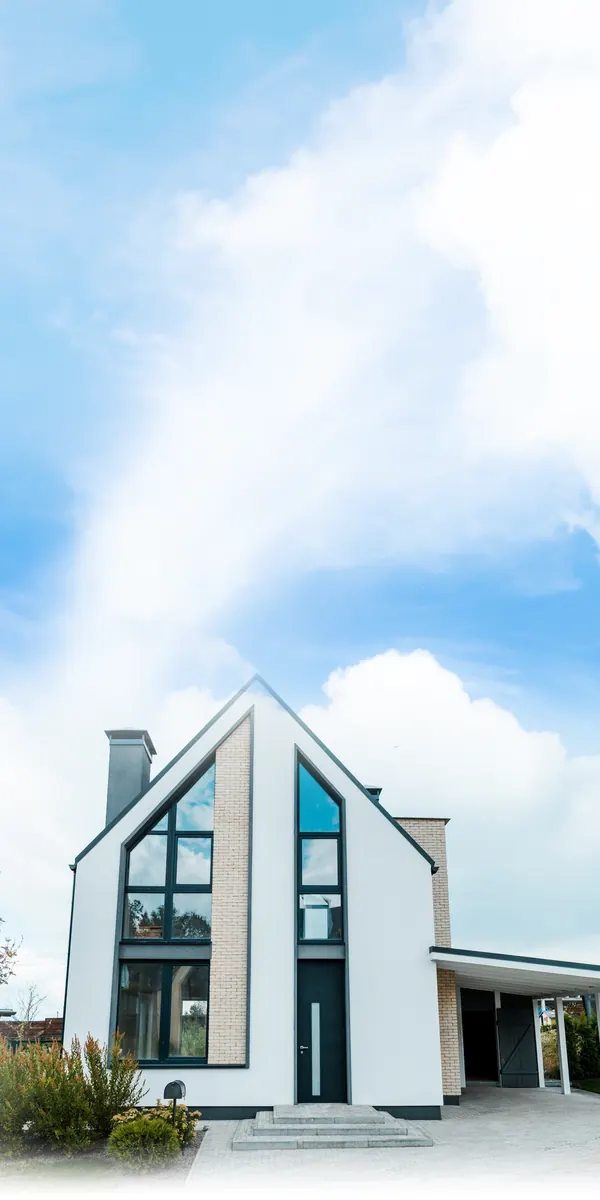
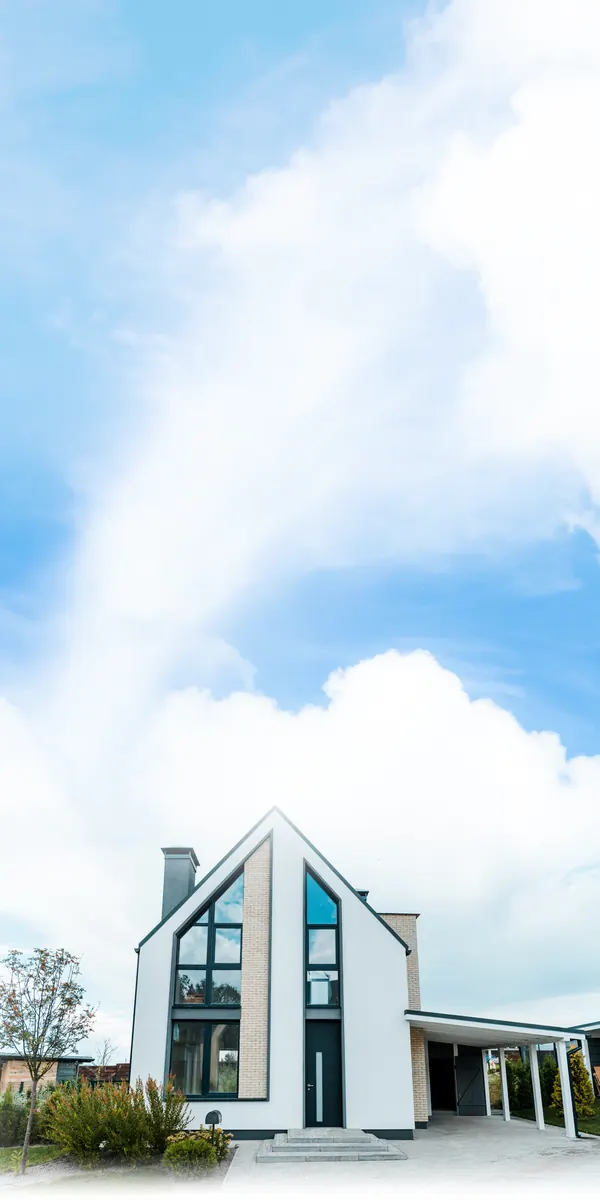
12 opinii, niższe hero na mobile

Changed region(s): [[0.0, 0.555, 1.0, 1.0]]

diff --git a/index.html b/index.html
@@ -348,6 +348,21 @@ b,strong{font-weight:400;color:var(--ink)}
   .hero__visual{min-height:0;align-self:stretch}
   .eskala{left:-4%;bottom:4%;width:250px}
 }
+/* mobile: nizsze hero (17.11) */
+@media (max-width:959px){
+  .hero{padding-top:20px;padding-bottom:0}
+  .hero__grid{gap:20px}
+  .hero .rating{margin-bottom:14px}
+  .hero .price-tag{margin-top:14px}
+  .hero__sub{margin-top:12px}
+  .hero__btns{margin-top:20px;gap:10px}
+  .hero__stats{margin-top:18px;padding:10px 12px}
+  .hero__visual{min-height:clamp(270px,74vw,440px)}
+  .eskala{width:min(170px,44vw);padding:10px 12px 12px;bottom:12px}
+  .eskala__t{font-size:11px;margin-bottom:7px}
+  .eskala__b,.eskala__m{height:16px;font-size:10px}
+  .eskala__r + .eskala__r{margin-top:3px}
+}
 @media (prefers-reduced-motion:no-preference){
   .eskala{animation:eskala-in .7s .35s both cubic-bezier(.2,.7,.2,1)}
   @keyframes eskala-in{from{opacity:0;transform:translateY(14px)}to{opacity:1;transform:none}}
@@ -736,7 +751,7 @@ b,strong{font-weight:400;color:var(--ink)}
           <div><span class="stars" aria-hidden="true"><svg><use href="#i-star"/></svg><svg><use href="#i-star"/></svg><svg><use href="#i-star"/></svg><svg><use href="#i-star"/></svg><svg><use href="#i-star"/></svg></span><span>Prawie 900 opinii w&nbsp;Google<span class="js-rating" hidden></span></span><a href="https://g.page/r/CWogD5_7JiQrEAE" target="_blank" rel="noopener">Zobacz opinie w&nbsp;Google</a></div>
         </div>
       </div>
-      <!-- Opinie: tylko prawdziwe z Google. Kolejne dopisywać jako <figure class="rv"> (do ok. 30), zwijanie działa samo. -->
+      <!-- Opinie: tylko prawdziwe z Google. Zostawione 12 pierwszych (17.11), zwijanie działa samo. -->
       <div class="revs-wrap is-collapsed" id="revsWrap">
         <div class="revs" id="revs">
         <figure class="rv"><div class="rv__top"><span class="stars" role="img" aria-label="5 na 5"><svg><use href="#i-star"/></svg><svg><use href="#i-star"/></svg><svg><use href="#i-star"/></svg><svg><use href="#i-star"/></svg><svg><use href="#i-star"/></svg></span><svg class="gico" role="img" aria-label="Opinia z Google"><use href="#i-google"/></svg></div><p>Z całego serca polecam tę firmę! Pełen profesjonalizm, świetny kontakt z&nbsp;klientem i&nbsp;bardzo miła obsługa. Świadectwo energetyczne wykonane szybko, sprawnie i&nbsp;bezproblemowo, a&nbsp;co najważniejsze, bez konieczności wychodzenia z&nbsp;domu!</p><footer><span class="av">MM</span>Małgorzata M.</footer></figure>
@@ -751,14 +766,6 @@ b,strong{font-weight:400;color:var(--ink)}
         <figure class="rv"><div class="rv__top"><span class="stars" role="img" aria-label="5 na 5"><svg><use href="#i-star"/></svg><svg><use href="#i-star"/></svg><svg><use href="#i-star"/></svg><svg><use href="#i-star"/></svg><svg><use href="#i-star"/></svg></span><svg class="gico" role="img" aria-label="Opinia z Google"><use href="#i-google"/></svg></div><p>Szybko, profesjonalnie i&nbsp;uczciwie. Okazało się, że budynek według przepisów nie wymaga świadectwa, ale bez problemu otrzymałam oświadczenie, dzięki czemu dokumentacja wymagana przez bank była pełna. Dziękuję i&nbsp;będę polecać!</p><footer><span class="av">KW</span>Katarzyna W.</footer></figure>
         <figure class="rv"><div class="rv__top"><span class="stars" role="img" aria-label="5 na 5"><svg><use href="#i-star"/></svg><svg><use href="#i-star"/></svg><svg><use href="#i-star"/></svg><svg><use href="#i-star"/></svg><svg><use href="#i-star"/></svg></span><svg class="gico" role="img" aria-label="Opinia z Google"><use href="#i-google"/></svg></div><p>Bardzo polecam wykonanie świadectwa w&nbsp;RW Projekt. Robiłam 3, wszystkie na szybko, także jestem zadowolona i&nbsp;bardzo dziękuję za szybką realizację.</p><footer><span class="av">MK</span>Magdalena K.</footer></figure>
         <figure class="rv"><div class="rv__top"><span class="stars" role="img" aria-label="5 na 5"><svg><use href="#i-star"/></svg><svg><use href="#i-star"/></svg><svg><use href="#i-star"/></svg><svg><use href="#i-star"/></svg><svg><use href="#i-star"/></svg></span><svg class="gico" role="img" aria-label="Opinia z Google"><use href="#i-google"/></svg></div><p>Bardzo dobry kontakt z&nbsp;firmą i&nbsp;profesjonalne podejście do zamówienia. Świadectwo energetyczne wykonane zgodnie z&nbsp;oczekiwaniami oraz w&nbsp;szybkim terminie. Polecam serdecznie.</p><footer><span class="av">DK</span>Daniel K.</footer></figure>
-        <figure class="rv"><div class="rv__top"><span class="stars" role="img" aria-label="5 na 5"><svg><use href="#i-star"/></svg><svg><use href="#i-star"/></svg><svg><use href="#i-star"/></svg><svg><use href="#i-star"/></svg><svg><use href="#i-star"/></svg></span><svg class="gico" role="img" aria-label="Opinia z Google"><use href="#i-google"/></svg></div><p>Świetna robota, szybko, sprawnie i&nbsp;dokładnie. Nawet trudne przypadki nie stanowią problemu. Profesjonalne podejście do swojej pracy i&nbsp;klienta. Polecam.</p><footer><span class="av">K</span>karrol81</footer></figure>
-        <figure class="rv"><div class="rv__top"><span class="stars" role="img" aria-label="5 na 5"><svg><use href="#i-star"/></svg><svg><use href="#i-star"/></svg><svg><use href="#i-star"/></svg><svg><use href="#i-star"/></svg><svg><use href="#i-star"/></svg></span><svg class="gico" role="img" aria-label="Opinia z Google"><use href="#i-google"/></svg></div><p>Bardzo polecam, dobry i&nbsp;szybki kontakt, charakterystyka wykonana w&nbsp;terminie i&nbsp;z&nbsp;pełną dokładnością. Konkurencyjne ceny i&nbsp;świetna współpraca. Jeśli będzie potrzeba, na pewno wrócę.</p><footer><span class="av">KP</span>Kamila P.</footer></figure>
-        <figure class="rv"><div class="rv__top"><span class="stars" role="img" aria-label="5 na 5"><svg><use href="#i-star"/></svg><svg><use href="#i-star"/></svg><svg><use href="#i-star"/></svg><svg><use href="#i-star"/></svg><svg><use href="#i-star"/></svg></span><svg class="gico" role="img" aria-label="Opinia z Google"><use href="#i-google"/></svg></div><p>Wszystko ok. Łatwy kontakt, paszport energetyczny mieszkania zrobiony bez jakiegokolwiek biegania. Polecam!</p><footer><span class="av">JK</span>Justyna K.</footer></figure>
-        <figure class="rv"><div class="rv__top"><span class="stars" role="img" aria-label="5 na 5"><svg><use href="#i-star"/></svg><svg><use href="#i-star"/></svg><svg><use href="#i-star"/></svg><svg><use href="#i-star"/></svg><svg><use href="#i-star"/></svg></span><svg class="gico" role="img" aria-label="Opinia z Google"><use href="#i-google"/></svg></div><p>Przygotowanie i&nbsp;wykonanie świadectwa jak należy, kontakt z&nbsp;wykonawcami bardzo dobry. Szybko i&nbsp;sprawnie, gorąco polecam!</p><footer><span class="av">AT</span>Aneta T.</footer></figure>
-        <figure class="rv"><div class="rv__top"><span class="stars" role="img" aria-label="5 na 5"><svg><use href="#i-star"/></svg><svg><use href="#i-star"/></svg><svg><use href="#i-star"/></svg><svg><use href="#i-star"/></svg><svg><use href="#i-star"/></svg></span><svg class="gico" role="img" aria-label="Opinia z Google"><use href="#i-google"/></svg></div><p>Miła, profesjonalna obsługa i&nbsp;szybka realizacja zlecenia. Polecam.</p><footer><span class="av">AO</span>Agata O.</footer></figure>
-        <figure class="rv"><div class="rv__top"><span class="stars" role="img" aria-label="5 na 5"><svg><use href="#i-star"/></svg><svg><use href="#i-star"/></svg><svg><use href="#i-star"/></svg><svg><use href="#i-star"/></svg><svg><use href="#i-star"/></svg></span><svg class="gico" role="img" aria-label="Opinia z Google"><use href="#i-google"/></svg></div><p>Profesjonalnie, szybko, bez problemów. Bardzo dobry kontakt. Parking dla klientów. Polecam zdecydowanie!</p><footer><span class="av">MD</span>Mariusz D.</footer></figure>
-        <figure class="rv"><div class="rv__top"><span class="stars" role="img" aria-label="5 na 5"><svg><use href="#i-star"/></svg><svg><use href="#i-star"/></svg><svg><use href="#i-star"/></svg><svg><use href="#i-star"/></svg><svg><use href="#i-star"/></svg></span><svg class="gico" role="img" aria-label="Opinia z Google"><use href="#i-google"/></svg></div><p>Bardzo solidna firma. Podziękowania dla Pani Ani za miłą obsługę i&nbsp;profesjonalizm.</p><footer><span class="av">MB</span>Maria B.</footer></figure>
-        <figure class="rv"><div class="rv__top"><span class="stars" role="img" aria-label="5 na 5"><svg><use href="#i-star"/></svg><svg><use href="#i-star"/></svg><svg><use href="#i-star"/></svg><svg><use href="#i-star"/></svg><svg><use href="#i-star"/></svg></span><svg class="gico" role="img" aria-label="Opinia z Google"><use href="#i-google"/></svg></div><p>Profesjonalna obsługa, szybka realizacja. Polecam.</p><footer><span class="av">KP</span>Katarzyna P.</footer></figure>
         </div>
       </div>
       <div class="revs-more"><button class="btn btn--ghost" type="button" id="revsBtn" aria-controls="revs" aria-expanded="false">Zobacz więcej opinii</button></div>
